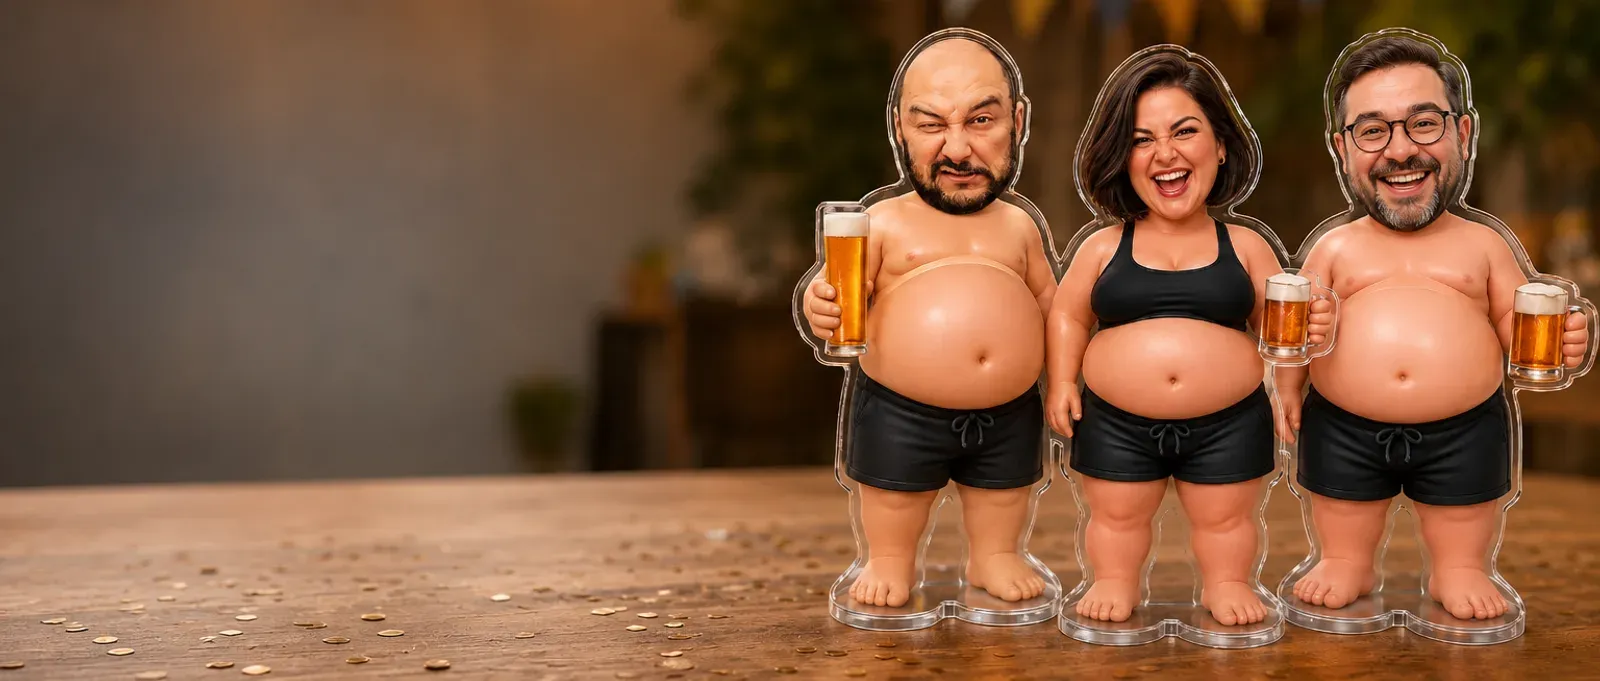
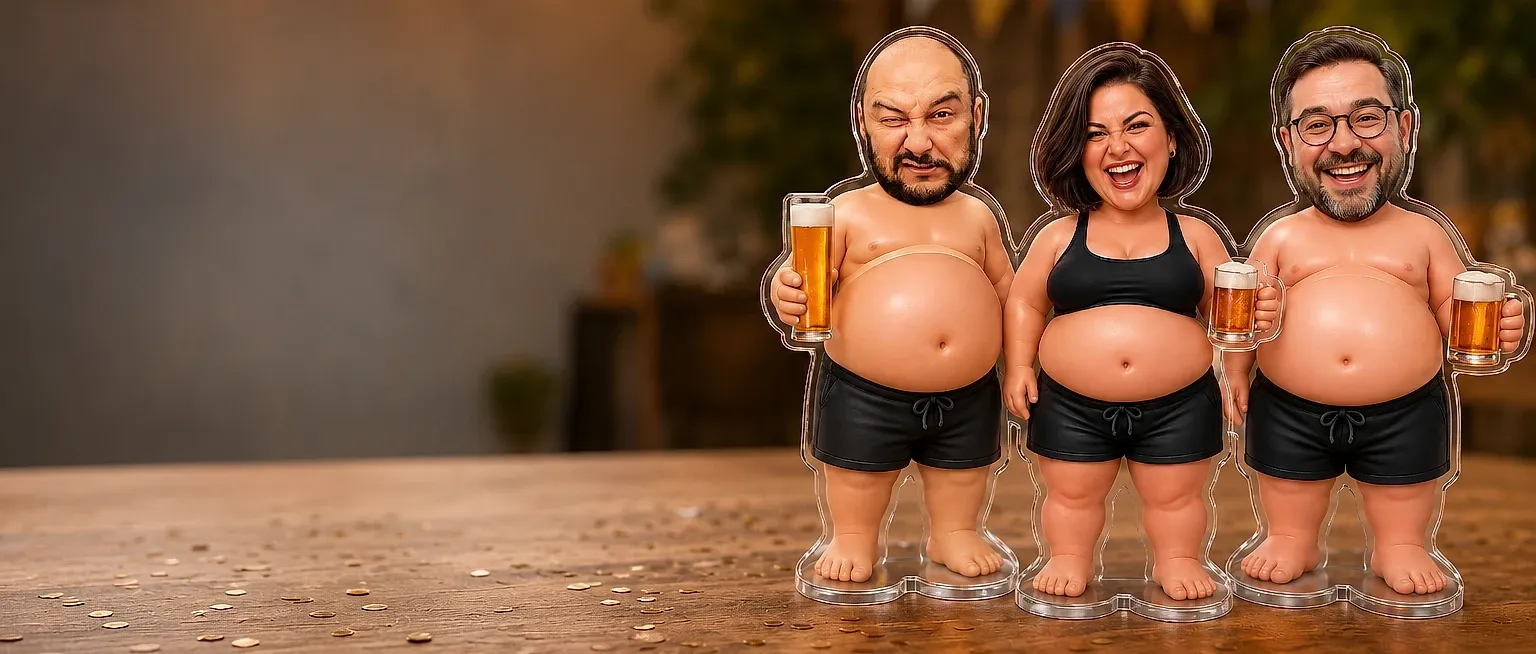
feat(hero): sticker lettering instead of stripes, sharper strips, shorter sub
White type with an ink outline and a hard offset shadow — the brand's sticker
look, no background box behind the copy. Strips re-encoded at native 1536px
(no upscale) at q90 with a light sharpen; the sub shrinks to one punchy line.

diff --git a/apps/storefront/src/app/[locale]/page.tsx b/apps/storefront/src/app/[locale]/page.tsx
@@ -82,12 +82,12 @@ export default async function Home({ params }: { params: Promise<{ locale: strin
         />
         <div className="pointer-events-none absolute inset-0 z-10 flex items-center">
           <div className="mx-auto w-full max-w-6xl px-4">
-            <div className="max-w-[300px] sm:max-w-[420px] lg:max-w-[480px]">
-              <h1 className="m-0 font-display text-[24px] font-extrabold leading-[1.18] sm:text-[34px] lg:text-[42px]">
-                <span className="hero-stripe">{t('title')}</span>
+            <div className="max-w-[300px] sm:max-w-[440px] lg:max-w-[520px]">
+              <h1 className="hero-title-outline m-0 font-display text-[26px] font-extrabold leading-[1.1] sm:text-[36px] lg:text-[46px]">
+                {t('title')}
               </h1>
-              <p className="mt-3 hidden text-[14.5px] sm:block sm:text-[16px]">
-                <span className="hero-stripe-soft">{t('sub')}</span>
+              <p className="hero-sub-outline mt-3 hidden font-display text-[15px] font-bold sm:block sm:text-[17px]">
+                {t('heroSub')}
               </p>
               <Link href="/product" className="btn-p pointer-events-auto mt-5 px-6 text-[15px] sm:px-7 sm:text-[16px]" data-testid="hero-cta">
                 {t('cta')}

diff --git a/apps/storefront/src/app/globals.css b/apps/storefront/src/app/globals.css
@@ -281,23 +281,19 @@ body {
     width: 100%;
   }
 }
-/* marker stripes: white bands hugging each wrapped line of the hero copy, so the
-   text reads on any photo without a solid card covering the scene */
-.hero-stripe {
-  display: inline;
-  background: #fff;
-  box-shadow: 0.14em 0 0 #fff, -0.14em 0 0 #fff;
-  box-decoration-break: clone;
-  -webkit-box-decoration-break: clone;
-  padding: 0.06em 0;
+/* sticker lettering: white type with an ink outline and a hard offset shadow — the
+   brand's sticker look, readable on any photo with no background box behind it */
+.hero-title-outline {
+  color: #fff;
+  -webkit-text-stroke: 7px var(--ink);
+  paint-order: stroke fill;
+  text-shadow: 3px 4px 0 rgba(23, 19, 26, 0.85);
 }
-.hero-stripe-soft {
-  display: inline;
-  background: rgba(255, 255, 255, 0.92);
-  box-shadow: 0.14em 0 0 rgba(255, 255, 255, 0.92), -0.14em 0 0 rgba(255, 255, 255, 0.92);
-  box-decoration-break: clone;
-  -webkit-box-decoration-break: clone;
-  padding: 0.09em 0;
+.hero-sub-outline {
+  color: #fff;
+  -webkit-text-stroke: 4px var(--ink);
+  paint-order: stroke fill;
+  text-shadow: 2px 2.5px 0 rgba(23, 19, 26, 0.8);
 }
 
 .hero-cap-in {
